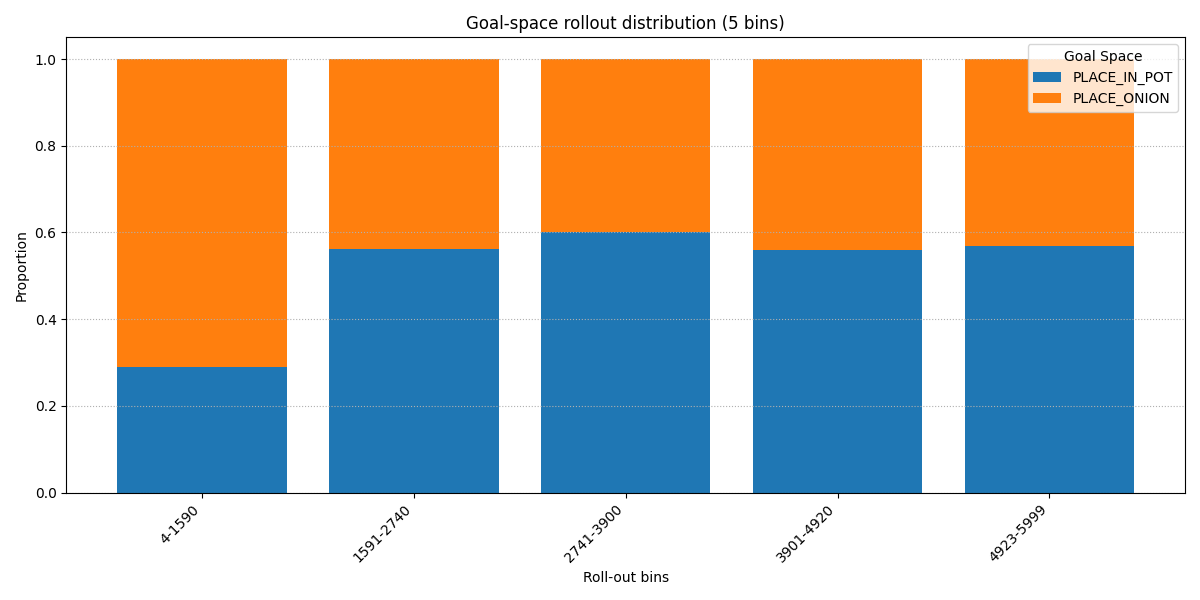
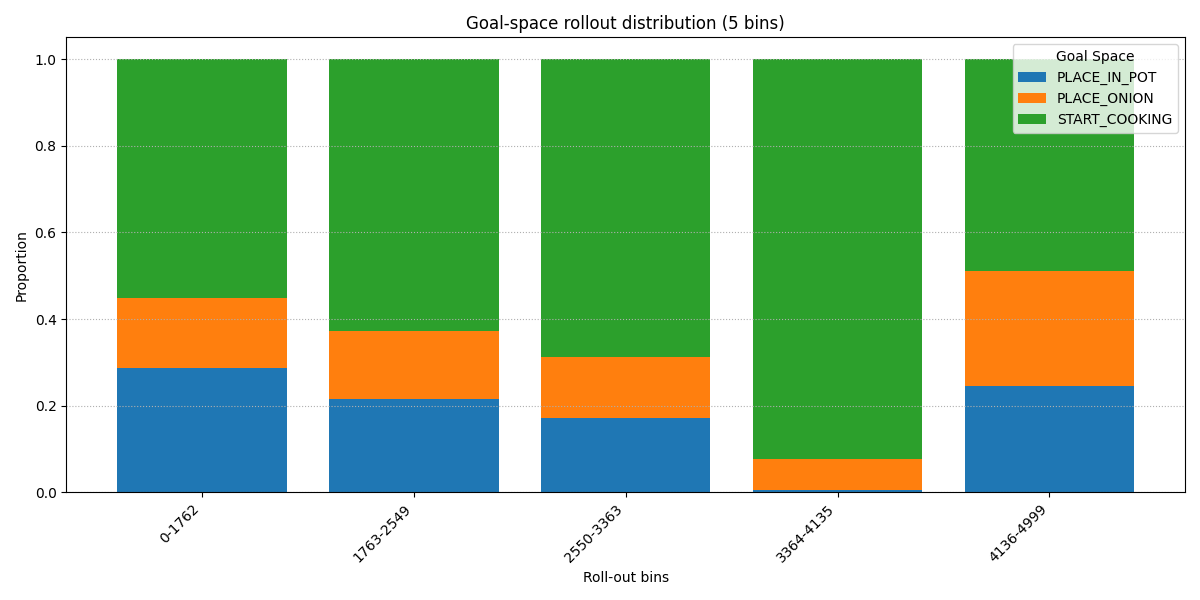
Pretty nice plot

diff --git a/IMGEP_agent/agent/goals/goal_spaces.py b/IMGEP_agent/agent/goals/goal_spaces.py
@@ -25,10 +25,11 @@ class GoalSpaceEnum(IntEnum):
 
 
 class Goal:
-    def __init__(self, goal_id: GoalSpaceEnum, fitness_fn, success_fn=None):
+    def __init__(self, goal_id: GoalSpaceEnum, fitness_fn, success_fn=None, reset=None):
         self.goal_id = goal_id
         self.fitness = fitness_fn
         self.success = success_fn
+        self.reset = reset
 
 
 def pick_object_space(goal_id: GoalSpaceEnum, object_code: int) -> Goal:
@@ -75,7 +76,9 @@ def place_object_space(goal_id: GoalSpaceEnum, object_code: int, terrain_type: i
 
 
 def start_cooking_space() -> Goal:
-    place_onion = place_object_space(GoalSpaceEnum.PLACE_ONION, ItemCode.ONION.value, TYPE_TO_CODE[POT])
+    place_onion_in_pot = place_object_space(GoalSpaceEnum.PLACE_ONION, ItemCode.ONION.value, TYPE_TO_CODE[POT])
+    place_onion_on_counter = place_object_space(GoalSpaceEnum.PLACE_ONION, ItemCode.ONION.value, TYPE_TO_CODE[COUNTER])
+    onions_placed = 0
     def fitness(pick_step: int, state: OvercookedState, previous_state: OvercookedState,
                 agent_id: int, mdp: OvercookedGridworld):
         prev_pots = set(mdp.get_cooking_pots(mdp.get_pot_states(previous_state)))
@@ -85,8 +88,15 @@ def start_cooking_space() -> Goal:
         prev_agent = previous_state.players[agent_id]
         adj = mdp.get_adjacent_features(prev_agent)
         adj_positions = {pos for pos, _ in adj}
-        if place_onion.success(agent_id, state, previous_state, mdp):
-            return 0.1
+        nonlocal onions_placed
+        if place_onion_in_pot.success(agent_id, state, previous_state, mdp):
+            onions_placed += 1
+            if onions_placed < 3:
+                return 0.1
+        if place_onion_on_counter.success(agent_id, state, previous_state, mdp):
+            onions_placed += 1
+            if onions_placed < 3:
+                return 0.05
         for p in new:
             if p in adj_positions:
                 current_pot_state = state.get_object(p)
@@ -136,6 +146,15 @@ def create_goal_spaces() -> List[Goal]:
         place_object_space(GoalSpaceEnum.PLACE_ONION, ItemCode.ONION.value, TYPE_TO_CODE[COUNTER]),
         place_object_space(GoalSpaceEnum.PLACE_IN_POT, ItemCode.ONION.value, TYPE_TO_CODE[POT]),
         # pick_object_space(GoalSpaceEnum.PICKUP_ONION, ItemCode.ONION.value),
-        # start_cooking_space(),
+        start_cooking_space(),
         # pickup_soup_space(),
     ]
+
+
+def reset_goal_spaces(goal_spaces: List[Goal]):
+    """
+    Reset the goal spaces to their initial state.
+    """
+    for goal in goal_spaces:
+        if goal.reset:
+            goal.reset()

diff --git a/IMGEP_agent/hyper_parameters.py b/IMGEP_agent/hyper_parameters.py
@@ -1,20 +1,19 @@
 # ROLLOUT PARAMETERS
 HORIZON = 100  # number of steps to run per rollout
-ROLLOUTS = 2000  # number of rollouts to run
+ROLLOUTS = 5000  # number of rollouts to run
 LAYOUT_ID = 22  # layout index to use from the layouts list in overcooked_ai_py
-LOAD_KB = True  # whether to load the knowledge base from a file or not
+LOAD_KB = False  # whether to load the knowledge base from a file or not
 
 # AGENT PARAMETERS
 EXPLOIT_PROB = 0.2  # probability of exploiting the current policy
 
 ### NEURAL NETWORK PARAMETERS
-NEURO_POLICY_HIDDEN_DIM = 64  # hidden layer size for the neural network policy
-ADAPTIVE_NOISE_STD = 0.1  # standard deviation for the adaptive noise added to the policy outputs
+NEURO_POLICY_HIDDEN_DIM = 128  # hidden layer size for the neural network policy
+ADAPTIVE_NOISE_STD = 0.2  # standard deviation for the adaptive noise added to the policy outputs
 PARENT_POLICY_RECENT_RECORDS = 50  # number of recent records to consider when selecting a parent policy
 
 ### GOAL SELECTION PARAMETERS
 GOAL_EMA_K = 50  # How many past exploit records to include in the EMA
-GOAL_EMA_ALPHA = 0.6  # Smoothing factor for the EMA (0 < ALPHA <= 1)
 GOAL_GREEDY_PROB = 0.8  # Probability of selecting the greedy goal space
 N_RECENT = 100
 BONUS_CAP = 0.10  # maximum bonus when we have 0 records

diff --git a/IMGEP_agent/agent/agent.py b/IMGEP_agent/agent/agent.py
@@ -2,7 +2,7 @@ import random
 from typing import List
 
 from IMGEP_agent.agent.goals.goal_policy import GoalSpaceEMA, select_goal, update_goal_space_ema
-from IMGEP_agent.agent.goals.goal_spaces import Goal, create_goal_spaces
+from IMGEP_agent.agent.goals.goal_spaces import Goal, create_goal_spaces, reset_goal_spaces
 from IMGEP_agent.agent.helpers.get_plan import get_plan
 from IMGEP_agent.agent.helpers.obs_to_vect import obs_to_vec
 from IMGEP_agent.agent.knowledge_base import KnowledgeBase, RolloutRecord
@@ -61,6 +61,7 @@ class IMGEPAgent(Agent):
         self.goal_reach_time_step = None
         self.rollout_fitness = 0.0
         self.previous_state = None
+        reset_goal_spaces(self.goal_spaces)
         chosen_goal, exploit = select_goal(self.goal_space_emas, other_goal_space_emas=other_goal_space_emas,
                                            other_kb=other_kb, goal_spaces=self.goal_spaces)
         exploit = exploit if exploit else random.random() < EXPLOIT_PROB

diff --git a/IMGEP_agent/run_rollout.py b/IMGEP_agent/run_rollout.py
@@ -1,8 +1,9 @@
 import copy
+import random
 
 from IMGEP_agent.agent.agent import IMGEPAgent
 from IMGEP_agent.agent.knowledge_base import KnowledgeBase
-from IMGEP_agent.hyper_parameters import HORIZON, LAYOUT_ID, LOAD_KB, ROLLOUTS
+from IMGEP_agent.hyper_parameters import EXPLOIT_PROB, HORIZON, LAYOUT_ID, LOAD_KB, ROLLOUTS
 from IMGEP_agent.visualise.create_gif import create_gif
 from IMGEP_agent.visualise.visualise import make_graphs
 from overcooked_ai_py.data.layouts.layouts import layouts
@@ -39,7 +40,7 @@ if LOAD_KB:
 for roll in range(ROLLOUTS):
     print(roll)
     env.reset(regen_mdp=True)
-
+    exploit = random.random() < EXPLOIT_PROB
     for ag in agents: ag.reset(other_goal_space_emas=agents[1 - ag.agent_id].goal_space_emas,
                                other_kb=agents[1 - ag.agent_id].kb, mdp=mdp)
     done = False

diff --git a/IMGEP_agent/agent/goals/goal_policy.py b/IMGEP_agent/agent/goals/goal_policy.py
@@ -3,7 +3,7 @@ from typing import Dict
 
 from IMGEP_agent.agent.goals.goal_spaces import Goal
 from IMGEP_agent.agent.knowledge_base import KnowledgeBase, RolloutRecord
-from IMGEP_agent.hyper_parameters import BONUS_CAP, BONUS_FLOOR, BONUS_SLOPE, GOAL_EMA_ALPHA, N_RECENT
+from IMGEP_agent.hyper_parameters import BONUS_CAP, BONUS_FLOOR, BONUS_SLOPE, N_RECENT
 
 
 class GoalSpaceEMA:
@@ -105,7 +105,6 @@ def select_goal(
 def update_goal_space_ema(
         kb: KnowledgeBase,
         goal_spaces: List[Goal],
-        alpha: float = GOAL_EMA_ALPHA
 ) -> List[GoalSpaceEMA]:
     """
     Compute an EMA of intrinsic reward for each GoalSpace.
